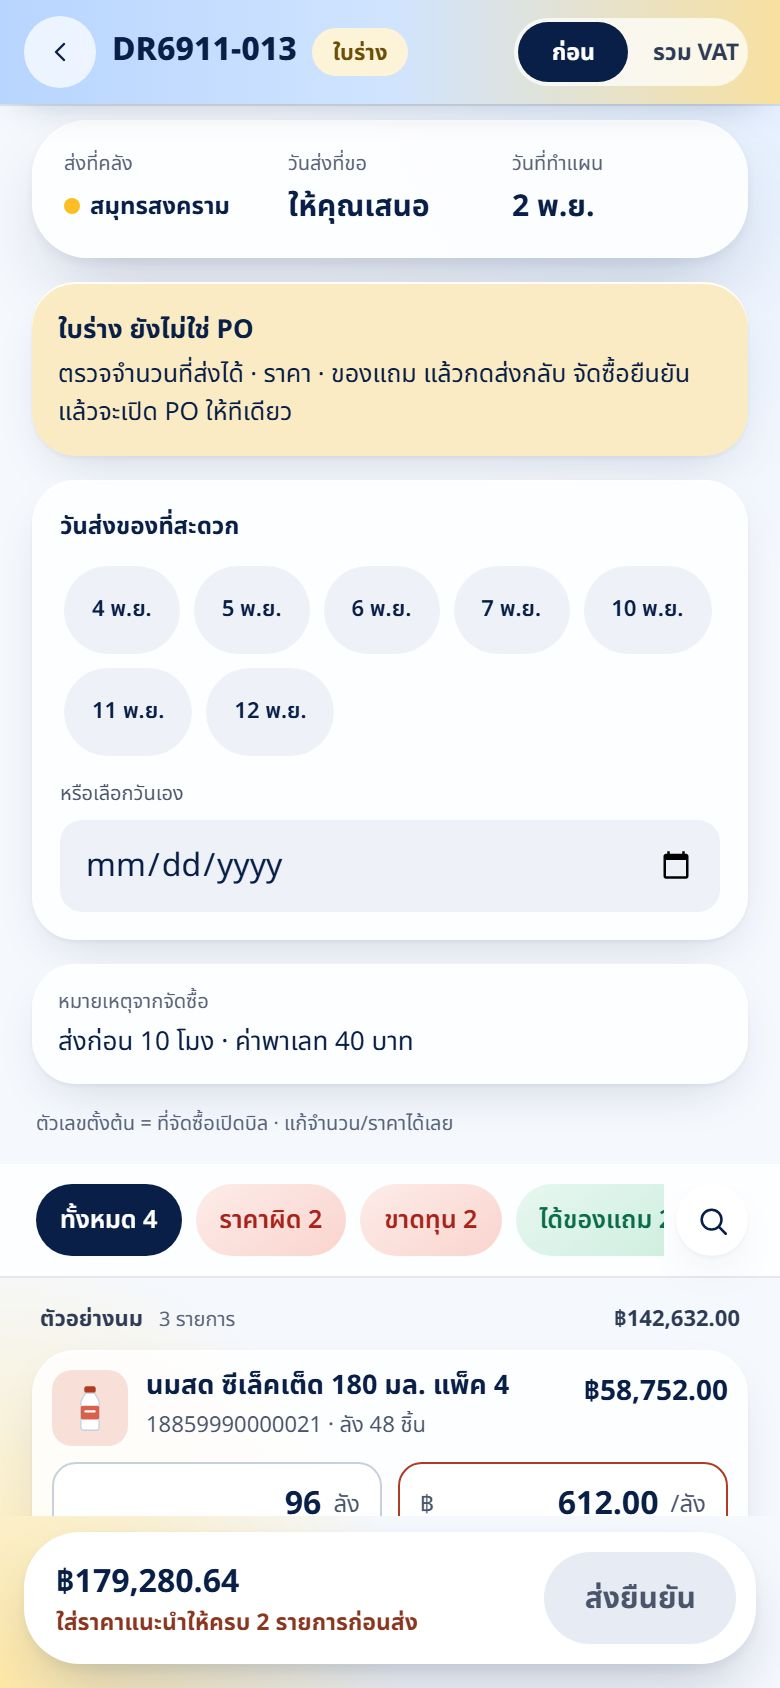
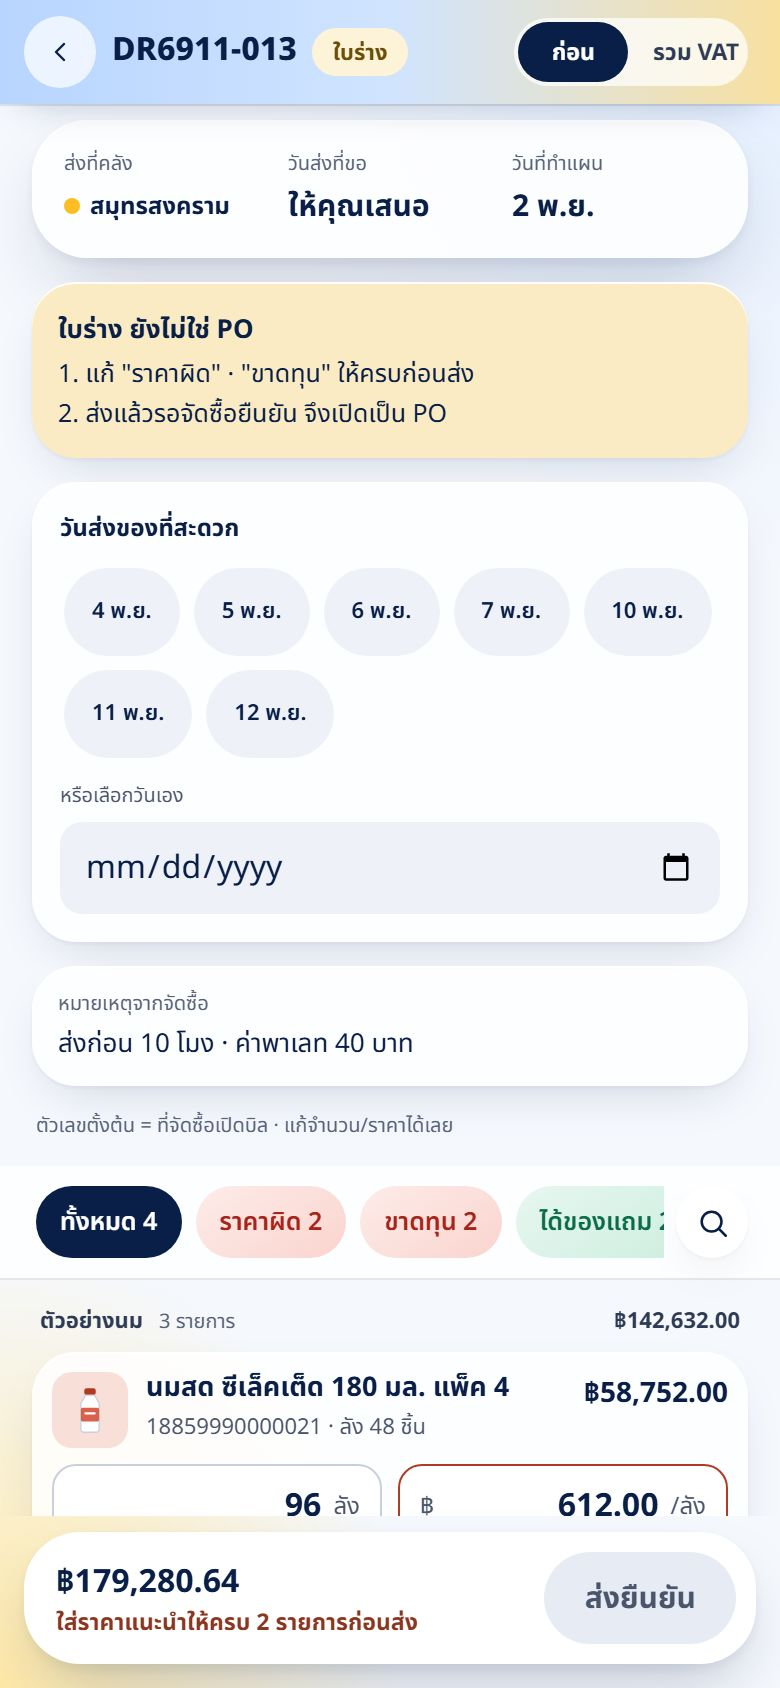
supplylink-guide v1.3.0: บทคำนวณโปร/ปันทุน + บทโปรขายออกแบบเคลมคืน เลือกตามแบรนด์/ขนาด · ภาพจากแอป v1.59.1

diff --git a/supplylink-guide.html b/supplylink-guide.html
@@ -3,7 +3,7 @@
 <head>
 <meta charset="utf-8">
 <meta name="viewport" content="width=device-width,initial-scale=1,viewport-fit=cover">
-<title>ฝึกใช้ SupplyLink v1.2.1</title>
+<title>ฝึกใช้ SupplyLink v1.3.0</title>
 <link rel="preconnect" href="https://fonts.googleapis.com">
 <link href="https://fonts.googleapis.com/css2?family=Noto+Sans+Thai:wght@400;500;600;700&display=swap" rel="stylesheet">
 <style>
@@ -111,8 +111,8 @@ button{font:inherit;cursor:pointer}
 
 <script>
 (function () {
-  var VER = 'v1.2.1', APP = 'https://liff.line.me/2011693023-xbdsN1K7';
-  var IMG = {"a2":"supplylink-guide/a2.jpg","a3":"supplylink-guide/a3.jpg","a5":"supplylink-guide/a5.jpg","d2":"supplylink-guide/d2.jpg","a4":"supplylink-guide/a4.jpg","d3":"supplylink-guide/d3.jpg","d4":"supplylink-guide/d4.jpg","p1":"supplylink-guide/p1.jpg","p1b":"supplylink-guide/p1b.jpg","b2":"supplylink-guide/b2.jpg","b3":"supplylink-guide/b3.jpg","p5":"supplylink-guide/p5.jpg","c2":"supplylink-guide/c2.jpg","c3":"supplylink-guide/c3.jpg","k1":"supplylink-guide/k1.jpg","k2":"supplylink-guide/k2.jpg","k3":"supplylink-guide/k3.jpg","k4":"supplylink-guide/k4.jpg","k5":"supplylink-guide/k5.jpg","k6":"supplylink-guide/k6.jpg","k7":"supplylink-guide/k7.jpg","k9":"supplylink-guide/k9.jpg","k10":"supplylink-guide/k10.jpg","k11":"supplylink-guide/k11.jpg","n1":"supplylink-guide/n1.jpg","n2":"supplylink-guide/n2.jpg","n3":"supplylink-guide/n3.jpg","n4":"supplylink-guide/n4.jpg","n5":"supplylink-guide/n5.jpg","n6":"supplylink-guide/n6.jpg","n7":"supplylink-guide/n7.jpg","m1":"supplylink-guide/m1.jpg","m2":"supplylink-guide/m2.jpg","m3":"supplylink-guide/m3.jpg","m4":"supplylink-guide/m4.jpg","m5":"supplylink-guide/m5.jpg","f1":"supplylink-guide/f1.jpg","f2":"supplylink-guide/f2.jpg","f3":"supplylink-guide/f3.jpg","f4":"supplylink-guide/f4.jpg"};                                       /* แทนด้วยรูปตอน build */
+  var VER = 'v1.3.0', APP = 'https://liff.line.me/2011693023-xbdsN1K7';
+  var IMG = {"q1":"supplylink-guide/q1.jpg","q2":"supplylink-guide/q2.jpg","q3":"supplylink-guide/q3.jpg","q4":"supplylink-guide/q4.jpg","q5":"supplylink-guide/q5.jpg","q6":"supplylink-guide/q6.jpg","q7":"supplylink-guide/q7.jpg","q8":"supplylink-guide/q8.jpg","x1":"supplylink-guide/x1.jpg","x2":"supplylink-guide/x2.jpg","x3":"supplylink-guide/x3.jpg","x4":"supplylink-guide/x4.jpg","x5":"supplylink-guide/x5.jpg","x6":"supplylink-guide/x6.jpg","x7":"supplylink-guide/x7.jpg","a2":"supplylink-guide/a2.jpg","a3":"supplylink-guide/a3.jpg","a5":"supplylink-guide/a5.jpg","d2":"supplylink-guide/d2.jpg","a4":"supplylink-guide/a4.jpg","d3":"supplylink-guide/d3.jpg","d4":"supplylink-guide/d4.jpg","p1":"supplylink-guide/p1.jpg","p1b":"supplylink-guide/p1b.jpg","b2":"supplylink-guide/b2.jpg","b3":"supplylink-guide/b3.jpg","p5":"supplylink-guide/p5.jpg","c2":"supplylink-guide/c2.jpg","c3":"supplylink-guide/c3.jpg","k1":"supplylink-guide/k1.jpg","k2":"supplylink-guide/k2.jpg","k3":"supplylink-guide/k3.jpg","k4":"supplylink-guide/k4.jpg","k5":"supplylink-guide/k5.jpg","k6":"supplylink-guide/k6.jpg","k7":"supplylink-guide/k7.jpg","k9":"supplylink-guide/k9.jpg","k10":"supplylink-guide/k10.jpg","k11":"supplylink-guide/k11.jpg","n1":"supplylink-guide/n1.jpg","n2":"supplylink-guide/n2.jpg","n3":"supplylink-guide/n3.jpg","n4":"supplylink-guide/n4.jpg","n5":"supplylink-guide/n5.jpg","n6":"supplylink-guide/n6.jpg","n7":"supplylink-guide/n7.jpg","m1":"supplylink-guide/m1.jpg","m2":"supplylink-guide/m2.jpg","m3":"supplylink-guide/m3.jpg","m4":"supplylink-guide/m4.jpg","m5":"supplylink-guide/m5.jpg","f1":"supplylink-guide/f1.jpg","f2":"supplylink-guide/f2.jpg","f3":"supplylink-guide/f3.jpg","f4":"supplylink-guide/f4.jpg"};                                       /* แทนด้วยรูปตอน build */
   var HAND = '<svg class="hand" viewBox="0 0 48 48" aria-hidden="true"><path d="M19 6c2 0 3.5 1.6 3.5 3.6V22l1-.1V18c0-2 1.6-3.4 3.4-3.4S30.3 16 30.3 18v4.4l1-.1v-2.6c0-1.9 1.5-3.3 3.3-3.3s3.3 1.5 3.3 3.3v3.6l.8-.1c1.8 0 3.3 1.5 3.3 3.3V34c0 6.6-5.4 12-12 12h-3.4c-3.8 0-7.4-1.8-9.6-4.9L8.5 30.6c-1-1.4-.7-3.4.7-4.4 1.4-1 3.3-.8 4.4.5l2 2.4V9.6C15.6 7.6 17.1 6 19 6z" fill="#fff" stroke="#0A1F47" stroke-width="2.4" stroke-linejoin="round"/></svg>';
   var FLOWCARD = function () {                              /* ส่งแล้วเกิดอะไรขึ้น: ซัพตอบ → จัดซื้อยืนยัน → เปิด PO จริง */
     var box = function (n, h, d, tone) { return '<div style="display:flex;gap:3cqw;align-items:flex-start;background:' + (tone || '#fff') + ';border-radius:4cqw;padding:3.6cqw 4cqw">' +
@@ -147,17 +147,32 @@ button{font:inherit;cursor:pointer}
         h:'จัดซื้อเปิด PO แล้ว', d:'PO ตรงกับที่ตกลง ได้การ์ดนี้ แตะ "จองคิวส่งของ"' },
       { img:'d4', r:[16, 636, 358, 52], h:'จองคิวส่งของ', d:'ในแอปกด "จองคิวส่งของ" แล้วเลือกวันเวลาเข้าคลัง' }
     ], end:'ถ้า PO มีจุดต่างจากที่ตกลง การ์ดจะบอกให้เปิดดูแล้วยืนยัน PO อีกครั้งก่อนจองคิว' },
+    { k:'calc', t:'คำนวณโปร · ทุนหลังปัน', g:'คำนวณโปร', s:'ส่วนลด แถม ปันทุน', n:8, steps:[
+      { img:'q1', r:[37, 395, 316, 20], h:'ดูว่าขาดทุนเท่าไร', d:'ทุนต่อลัง (รวม VAT) เทียบราคาขายต่ำสุดของรัตน ทุนสูงกว่า = ขาดทุน' },
+      { img:'q2', r:[153, 388, 82, 34], h:'ลดทุนด้วยโปร', d:'กด "+ ส่วนลด" "+ ของแถม" หรือ "+ อื่นๆ" (รีเบต · แถมนอกบิล)' },
+      { img:'q3', r:[39, 386, 152, 38], h:'ใส่จำนวนที่แถม', d:'แถมตัวเดียวกันกี่ลัง / แพ็ค / ชิ้น แตะช่องนี้', fx:'type', fxt:'10' },
+      { img:'q4', r:[39, 396, 312, 17], h:'แอปคิดทุนให้ทันที', d:'หักค่าของแถมออกจากทุนต่อลังให้เลย ขึ้น "ไม่ขาดทุนแล้ว"' },
+      { img:'q5', r:[39, 388, 104, 34], h:'แถมสินค้าตัวอื่น', d:'แถมเป็นตัวอื่น กดตรงนี้แล้วติ๊กเลือกตัวที่แถม' },
+      { img:'q6', r:[16, 350, 358, 110], h:'ปันทุนของแถม', d:'แอปปันให้เอง: ตัวเดียวกัน → ขนาดเดียวกัน → ทั้งใบ · กด "เลือกสินค้า" เพื่อเลือกเอง' },
+      { img:'q7', r:[16, 329, 358, 152], h:'ส่วนลดท้ายบิล', d:'ใส่เป็น % หรือบาท แอปหักเข้าทุนทุกตัวตามยอดเงิน' },
+      { img:'q8', r:[26, 313, 338, 183], h:'ยังขาดทุนอยู่', d:'ใส่ราคาแนะนำขาย (ปลีก/ชิ้น · ต่ำสุด/ลัง) ให้จัดซื้อพิจารณา' }
+    ], end:'ทุกการแก้ราคาและโปรในใบนี้ ส่งให้ฝ่ายจัดซื้อตรวจก่อน · โปรที่ตกลงไว้แล้ว แอปใส่ให้ในใบร่างเอง' },
     { k:'sellin', t:'โปร / Rebate ตามเป้า', g:'โปร / Rebate', s:'ตั้งเป้า ใช้แบบเดิม', n:4, steps:[
       { img:'p1', r:[16, 119, 175, 109], h:'เมนู รายได้อื่น', d:'แตะ "โปร / Rebate ตามเป้า"' },
       { img:'b2', r:[102, 309, 76, 44], h:'เลือกช่วงโปร', d:'เดือน ไตรมาส หรือทั้งปี วันที่ขึ้นให้เอง ลองแตะ "เดือนหน้า"' },
       { img:'b3', r:[42, 462, 148, 44], h:'ใส่ขั้นเป้า', d:'ซื้อถึงกี่ลัง/กี่บาท ได้ลดหรือแถมเท่าไร แตะช่องนี้', fx:'type', fxt:'100' },
       { img:'p5', r:[16, 80, 358, 64], h:'โปรซ้ำทุกรอบ', d:'กด "ใช้แบบเดิม" แอปดึงใบล่าสุดมาให้ เลื่อนช่วงเป็นรอบถัดไปเอง' }
     ], end:'เซ็นชื่อท้ายหน้าแล้วกดส่ง · ดูความคืบหน้าได้ในแอปว่าซื้อแล้วเท่าไร ต้องซื้อเติมอีกเท่าไร' },
-    { k:'sell', t:'ขอทำโปรขายออก', g:'โปรขายออก', s:'ติ๊กสินค้า ใครจ่าย', n:3, steps:[
+    { k:'sell', t:'ขอทำโปรขายออก · เคลมคืน', g:'โปรขายออก', s:'แบรนด์ ขนาด เคลมคืน', n:8, steps:[
       { img:'p1b', r:[200, 237, 175, 109], h:'เมนู รายได้อื่น', d:'แตะ "ขอทำโปรขายออก"' },
-      { img:'c2', r:[32, 243, 44, 44], h:'ติ๊กสินค้าที่ร่วมโปร', d:'ลากนิ้วลงตามช่องติ๊ก เลือกทีละหลายตัวได้ ลองแตะช่องนี้', fx:'tick' },
-      { img:'c3', r:[30, 379, 161, 60], h:'เลือกใครจ่าย', d:'ซัพลดในบิลซื้อ หรือรัตนจัดก่อนแล้วเคลมคืน' }
-    ], end:'แบบรัตนจัดก่อนแล้วเคลมคืน จบรอบแล้วฝ่ายจัดซื้อจะติดต่อเรื่องเคลม · ผลพิจารณาดูในเมนู รายได้อื่น' },
+      { img:'x1', r:[199, 379, 161, 60], h:'รัตนจัด แล้วเคลมคืน', d:'รัตนลดราคาให้ลูกค้าก่อน แล้วเรียกเก็บจากซัพทีหลัง · หรือเลือก "ซัพลดในบิลซื้อ"' },
+      { img:'x2', r:[30, 385, 330, 48], h:'วิธีเคลมคืน', d:'CN · หักบิล · สินค้า หรืออื่นๆ และเลือกว่าจะเคลมเมื่อไร' },
+      { img:'x3', r:[67, 396, 281, 26], h:'ค้นตามแบรนด์ / ขนาด', d:'พิมพ์ชื่อแบรนด์ หรือขนาด เช่น 180 มล. รายการกรองให้ทันที', fx:'type', fxt:'นมเปรี้ยว' },
+      { img:'x4', r:[213, 387, 101, 44], h:'ติ๊กทุกตัวที่เห็น', d:'เลือกทั้งแบรนด์หรือทั้งขนาดได้ในคลิกเดียว' },
+      { img:'x5', r:[42, 385, 306, 48], h:'ตั้งโปรรายสินค้า', d:'ลดบาท · ลด % · ราคาพิเศษ · ซื้อแถม แยกแต่ละตัวได้' },
+      { img:'x6', r:[42, 387, 148, 44], h:'ส่วนลด + ประมาณขาย', d:'ใส่ส่วนลดต่อหน่วยและยอดที่คาดว่าจะขาย แอปคำนวณยอดเคลมประมาณให้', fx:'type', fxt:'5' },
+      { img:'x7', r:[216, 387, 144, 44], h:'ใช้แบบตัวแรกกับทุกตัว', d:'ทั้งแบรนด์โปรเหมือนกัน ตั้งตัวแรกแล้วกดนี้ ไม่ต้องกรอกซ้ำ' }
+    ], end:'จบรอบ ฝ่ายจัดซื้อคิดจากยอดขายจริงช่วงโปร × ส่วนลด แล้วติดต่อเรื่องเคลม · แบบซัพลดในบิล ใบร่างช่วงโปรจะใส่ส่วนลดให้เอง' },
     { k:'book', t:'จองคิวส่งของ', g:'จองคิวส่งของ', s:'บัตรคิว + QR', n:10, steps:[
       { img:'k1', r:[30, 126, 78, 44], h:'เมนู จองคิว', d:'นัดเรื่องอะไร แตะ "ลงสินค้า"' },
       { img:'k2', r:[30, 378, 330, 64], h:'ติ๊กใบสั่งซื้อที่จะส่ง', d:'ติ๊กได้หลายใบ ถ้าส่งคลังเดียวกันรวมเที่ยวเดียวได้' },
